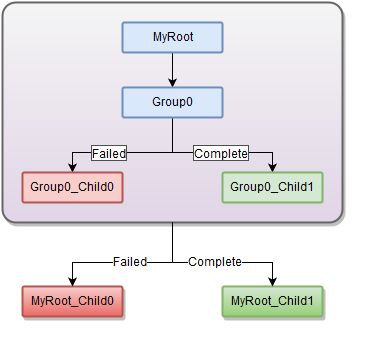
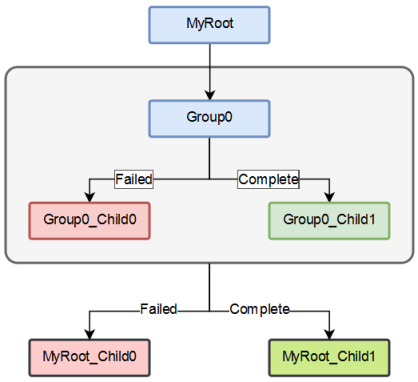
updated Action.Result information

diff --git a/docs/plans/actions/detail.md b/docs/plans/actions/detail.md
@@ -65,7 +65,7 @@ Actions:
 
  - Represented as a flowchart, the above Plan looks like this:
 
-<p align="left">
+<p align="center">
 <img alt="Synapse Action ExecuteCase Flowchart" src="../../../img/action_executeCaseFlowchart.png" />
 </p>
 
@@ -94,20 +94,24 @@ Holds the post-execution result of the Action. Rolls-up child execution results 
 
 ```yaml
 Result:
-  Status: New
-  ExitData: Data returned from the Handler.
-  BranchStatus: Failed
-  PId: 1234
+  PId: 12345
+  Status: Complete
+  ExitCode: 1
+  ExitData: Custom data as returned from Handler
+  BranchStatus: CompletedWithErrors
+  Sequence: 1
+  Message: Custom exit message from Handler
+  SecurityContext: runtime user
 ```
 
-- In the diagram below, the Status (node status) is shown on the lower left of the Action nodes in orange.  The BranchStatus is shown on the upper right of the Action nodes in black or maroon.
-    - The orange status path shows which nodes are executed: blue nodes always execute, green nodes execute based on parent node status.
-    - The black/maroon BranchStatus values are gained by upward propagation from child node execution.
+- In the diagram below, the Status (node status) is shown on the lower left of the Action nodes with arrows pointing downward.  The BranchStatus is shown on the upper right of the Action nodes with arrows pointing upward.
+    - The Status path shows which nodes are executed: blue nodes always execute, green nodes execute based on parent node status.
+    - The BranchStatus values are gained by upward propagation from child node execution.
     - Execution of Group0 completes first, propagating its status upward to MyRoot.  Execution of MyRoot_Child1 follows on the 'Complete' path.
-    - The MyRoot BranchStatus value of 'Completed' is ultimately overriden by 'Cancelled', as 'Cancelled' has a higher value than 'Complete'.
-    - Lastly, note that the Propagation path of 'Cancelled' is directly from MyRoot_Child1 --> MyRoot; the status would not traverse Group0_Child1 or Group0 as they are not on the ascending branch path.
+    - The MyRoot BranchStatus value of 'Completed' is ultimately overriden by 'CompletedWithErrors', as 'CompletedWithErrors' has a higher value than 'Complete'.
+    - Lastly, note that the Propagation path of 'CompletedWithErrors' is directly from MyRoot_Child1 --> MyRoot; the status would not traverse Group0_Child1 or Group0 as they are not on the ascending branch path.
 
-<p align="left">
+<p align="center">
 <img alt="Synapse Action Result.Status Propagation" src="../../../img/action_ResultStatusPropagation.png" />
 </p>
 
